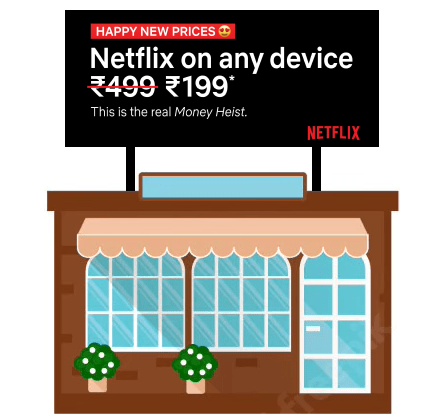
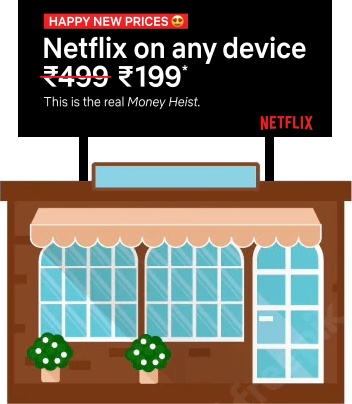
Modified building ads

diff --git a/DinoRunner/DinoRunner/GameScene.swift b/DinoRunner/DinoRunner/GameScene.swift
@@ -346,7 +346,7 @@ class GameScene: SKScene, SKPhysicsContactDelegate {
         //texture
         var asset = "dino.assets/landscape/building4"
         if indexForBuilding % 2 != 0 {
-            asset = "dino.assets/landscape/building3"
+            asset = "dino.assets/landscape/building5"
         }
         let moonTexture = SKTexture(imageNamed: asset)
         let moonScale = 0.8 as CGFloat
